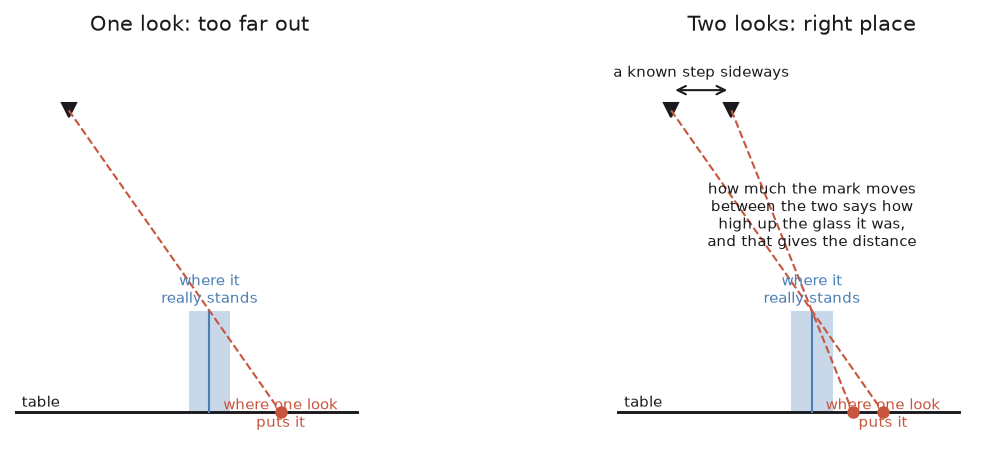
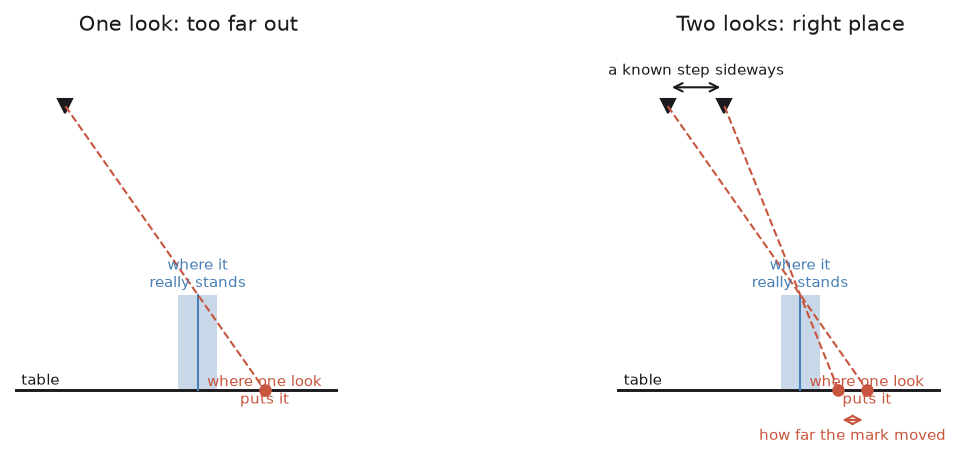
Let the two-looks picture show the measurement, not describe it
The right hand panel had a paragraph in it explaining what the two marks
mean, which crossed the rays it was explaining and sat on top of the glass.
The picture now measures between the two marks and labels that, and the
words stay in the document where there is room for them.

Also wraps three lines in the figure script that were over the line length.

diff --git a/v5-pick-glasses/docs/make_images.py b/v5-pick-glasses/docs/make_images.py
@@ -461,10 +461,12 @@ def laying_a_glass_on_the_table() -> None:
         )
 
         eyes = [0.03] if not pair else [0.03, 0.12]
+        eyes_fell: list[float] = []
         for index, eye in enumerate(eyes):
             ax.plot([eye], [camera], marker="v", color=INK, ms=7)
             # The ray that grazes the top of the glass, carried on to the table.
             fell = eye + (glass - eye) * camera / (camera - height)
+            eyes_fell.append(fell)
             ax.plot([eye, fell], [camera, 0], color=GRIP, lw=1.0, ls="--")
             ax.plot([fell], [0], marker="o", color=GRIP, ms=5)
             if index == 0:
@@ -476,17 +478,24 @@ def laying_a_glass_on_the_table() -> None:
                 arrowprops={"arrowstyle": "<->", "color": INK, "lw": 1.0},
             )
             ax.text(0.075, camera + 0.050, "a known step sideways", fontsize=7, color=INK, ha="center")
+            ax.annotate(
+                "", xy=(fell, -0.048), xytext=(eyes_fell[0], -0.048),
+                arrowprops={"arrowstyle": "<->", "color": GRIP, "lw": 1.0},
+            )
             ax.text(
-                0.24, camera * 0.55,
-                "how much the mark moves\nbetween the two says how\nhigh up the glass it was,\nand that gives the distance",
-                fontsize=7, color=INK, ha="center",
+                (eyes_fell[0] + fell) / 2, -0.062,
+                "how far the mark moved",
+                fontsize=7, color=GRIP, ha="center", va="top",
             )
 
         ax.set_xlim(-0.05, 0.50)
-        ax.set_ylim(-0.07, camera + 0.10)
+        ax.set_ylim(-0.11, camera + 0.10)
         ax.set_aspect("equal")
         ax.axis("off")
-        ax.set_title("One look: too far out" if not pair else "Two looks: right place", fontsize=10, color=INK)
+        ax.set_title(
+            "One look: too far out" if not pair else "Two looks: right place",
+            fontsize=10, color=INK,
+        )
 
     _save(fig, "one-look-two-looks.png")
 
